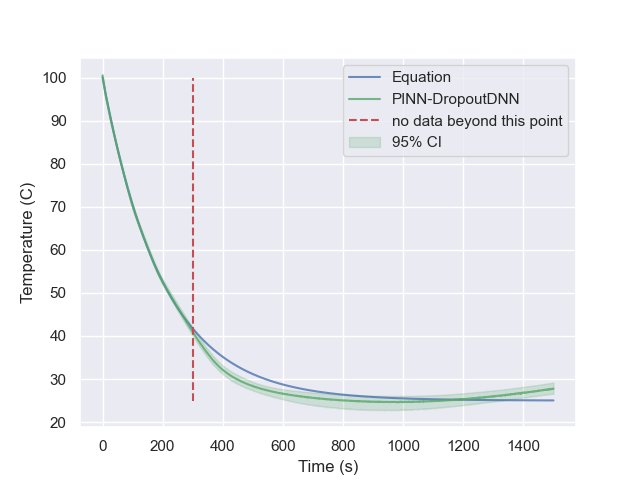
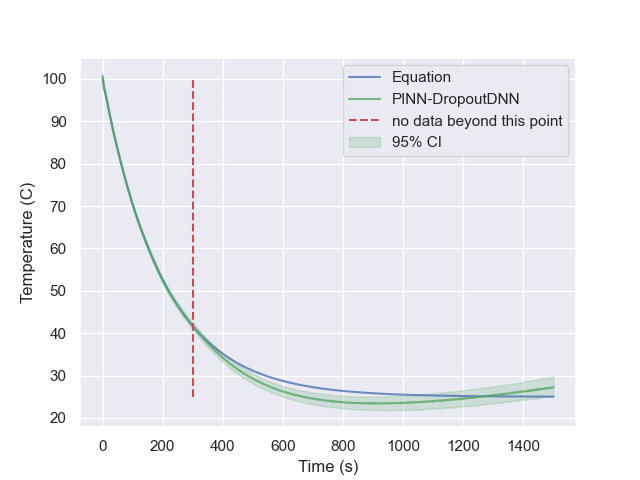
update pinn evaluate method

diff --git a/PINN/models/fitzhugh_nagumo.py b/PINN/models/fitzhugh_nagumo.py
@@ -22,24 +22,25 @@ class FitzHugh_Nagumo(PhysicsModel):
                  V0 = -1.0,
                  R0 = 1.0,
                  t_end=5,
-                 t_extend=20
+                 t_extend=20,
+                 noise_sd=0.1
                  ):
-        super().__init__(a=a, b=b, c=c, V0=V0, R0=R0, t_end=t_end, t_extend=t_extend)
+        super().__init__(a=a, b=b, c=c, V0=V0, R0=R0, t_end=t_end, t_extend=t_extend, noise_sd=noise_sd)
 
         
-    def _data_generation(self, n_samples=20, noise_sd=0.05):
+    def _data_generation(self, n_samples=300):
         t_eval = np.linspace(0, self.t_end, n_samples)
         V, R = self.physics_law(t_eval, self.V0, self.R0)
         
-        X = torch.tensor(t_eval).reshape(-1,1)
+        X = torch.tensor(t_eval).to(torch.float32).reshape(-1,1)
         y = torch.stack([V, R], dim=1)
-        y += noise_sd * torch.randn_like(y)
+        y += self.noise_sd * torch.randn_like(y)
         return X, y
     
     def physics_law(self, ts, V_init, R_init)->torch.Tensor:
         sol = solve_ivp(self.fitzhugh_nagumo, (ts[0], ts[-1]), [V_init, R_init], t_eval=ts)
-        V = torch.tensor(sol.y[0])
-        R = torch.tensor(sol.y[1])
+        V = torch.tensor(sol.y[0]).to(torch.float32)
+        R = torch.tensor(sol.y[1]).to(torch.float32)
         return V, R
     
     def fitzhugh_nagumo(self, t, y):
@@ -78,11 +79,13 @@ class FitzHugh_Nagumo(PhysicsModel):
         fig, (ax1, ax2) = plt.subplots(2, 1, sharex=True, figsize=(8, 6))
         
         ax1.plot(ts, V.flatten().numpy(), 'b', label='V (Voltage Variable)')
+        ax1.scatter(self.X, self.y[:,0], color='r', label='Data', marker='x')
         ax1.set_ylabel('V(t)')
         ax1.set_ylim(-2, 4)
         ax1.legend()
         
-        ax2.plot(ts, R.flatten().numpy(), 'r', label='R (Recovery Variable)')
+        ax2.plot(ts, R.flatten().numpy(), 'g', label='R (Recovery Variable)')
+        ax2.scatter(self.X, self.y[:,1], color='r', label='Data', marker='x')
         ax2.set_xlabel('t')
         ax2.set_ylabel('R(t)')
         ax2.set_ylim(-1, 2)
@@ -96,7 +99,8 @@ if __name__ == "__main__":
     
     
     model = FitzHugh_Nagumo()
-    # print(model.X, model.y)
+    print(model.X.shape, model.y.shape)
+    print(model.input_dim, model.output_dim)
     
     net = nn.Sequential(
         nn.Linear(1, 15),
@@ -105,13 +109,15 @@ if __name__ == "__main__":
         nn.Softplus(),
         nn.Linear(15, 2)
     )
-    optimizer = torch.optim.Adam(net.parameters(), lr=1e-3)
-    optimizer.zero_grad()
-    loss = model.physics_loss(net)
-    loss.backward()
+    # optimizer = torch.optim.Adam(net.parameters(), lr=1e-3)
+    # optimizer.zero_grad()
+    # loss = model.physics_loss(net)
+    # loss.backward()
     
-    for p in net.parameters():
-        print(p.grad)
+    # for p in net.parameters():
+        # print(p.grad)
+    
+    # model.plot()
     
     # print(model.physics_loss(net))
     

diff --git a/test_fitzhugh_efi.py b/test_fitzhugh_efi.py
@@ -1,0 +1,61 @@
+from PINN.pinn_efi import PINN_EFI
+from PINN.models.fitzhugh_nagumo import FitzHugh_Nagumo
+import torch
+import matplotlib.pyplot as plt
+import seaborn as sns
+
+
+
+
+if __name__ == '__main__':
+    
+    physics_model = FitzHugh_Nagumo()
+    model = PINN_EFI(physics_model=physics_model, physics_loss_weight=0, lr=1e-4, sgld_lr=1e-4, lambda_y=10, lambda_theta=10, hidden_layers=[15, 15, 15])
+    
+    for key, value in model.__dict__.items():
+        print('{}: {}'.format(key, value))
+        
+        
+    ts = torch.linspace(0, physics_model.t_extend, 100)
+    
+    losses = model.train(epochs=10000, eval_x=ts.view(-1,1))
+    
+    preds_upper, preds_lower, preds_mean = model.summary()
+    print(preds_upper.shape, preds_lower.shape, preds_mean.shape)
+    
+    V_upper = preds_upper[:,0]
+    V_lower = preds_lower[:,0]
+    V_mean = preds_mean[:,0]
+    
+    R_upper = preds_upper[:,1]
+    R_lower = preds_lower[:,1]
+    R_mean = preds_mean[:,1]
+    
+    V_true, R_true = physics_model.physics_law(ts, -1.0, 1.0)
+    
+    
+
+
+    sns.set_theme()
+    # Plot the results
+    fig, (ax1, ax2) = plt.subplots(2, 1, sharex=True, figsize=(8, 6))
+    
+    ax1.plot(ts, V_true.flatten().numpy(), 'b', label='True V')
+    ax1.plot(ts, V_mean, 'g', label='Estimated V')
+    ax1.fill_between(ts, V_upper, V_lower, alpha=0.2, color='g', label='95% CI')
+    ax1.scatter(model.X, model.y[:,0], color='r', label='Data', marker='x')
+    ax1.set_ylabel('V(t)')
+    ax1.set_ylim(-2, 4)
+    ax1.legend()
+    
+    ax2.plot(ts, R_true.flatten().numpy(), 'b', label='True R')
+    ax2.plot(ts, R_mean, 'g', label='Estimated R')
+    ax2.fill_between(ts, R_upper, R_lower, alpha=0.2, color='g', label='95% CI')
+    ax2.scatter(model.X, model.y[:,1], color='r', label='Data', marker='x')
+    ax2.set_xlabel('t')
+    ax2.set_ylabel('R(t)')
+    ax2.set_ylim(-1, 2)
+    ax2.legend()
+    
+    plt.tight_layout()
+    plt.show()

diff --git a/test_fitzhugh_pinn.py b/test_fitzhugh_pinn.py
@@ -1,0 +1,61 @@
+from PINN.pinn import PINN
+from PINN.models.fitzhugh_nagumo import FitzHugh_Nagumo
+import torch
+import matplotlib.pyplot as plt
+import seaborn as sns
+
+
+
+
+if __name__ == '__main__':
+    
+    physics_model = FitzHugh_Nagumo()
+    model = PINN(physics_model=physics_model, physics_loss_weight=10, lr=1e-3, hidden_layers=[15, 15, 15])
+    
+    for key, value in model.__dict__.items():
+        print('{}: {}'.format(key, value))
+        
+        
+    ts = torch.linspace(0, physics_model.t_extend, 1000)
+    
+    losses = model.train(epochs=30000, eval_x=ts.view(-1,1))
+    
+    preds_upper, preds_lower, preds_mean = model.summary()
+    print(preds_upper.shape, preds_lower.shape, preds_mean.shape)
+    
+    V_upper = preds_upper[:,0]
+    V_lower = preds_lower[:,0]
+    V_mean = preds_mean[:,0]
+    
+    R_upper = preds_upper[:,1]
+    R_lower = preds_lower[:,1]
+    R_mean = preds_mean[:,1]
+    
+    V_true, R_true = physics_model.physics_law(ts, -1.0, 1.0)
+    
+    
+
+
+    sns.set_theme()
+    # Plot the results
+    fig, (ax1, ax2) = plt.subplots(2, 1, sharex=True, figsize=(8, 6))
+    
+    ax1.plot(ts, V_true.flatten().numpy(), 'b', label='True V')
+    ax1.plot(ts, V_mean, 'g', label='Estimated V')
+    ax1.fill_between(ts, V_upper, V_lower, alpha=0.2, color='g', label='95% CI')
+    ax1.scatter(model.X, model.y[:,0], color='r', label='Data', marker='x')
+    ax1.set_ylabel('V(t)')
+    ax1.set_ylim(-2, 4)
+    ax1.legend()
+    
+    ax2.plot(ts, R_true.flatten().numpy(), 'b', label='True R')
+    ax2.plot(ts, R_mean, 'g', label='Estimated R')
+    ax2.fill_between(ts, R_upper, R_lower, alpha=0.2, color='g', label='95% CI')
+    ax2.scatter(model.X, model.y[:,1], color='r', label='Data', marker='x')
+    ax2.set_xlabel('t')
+    ax2.set_ylabel('R(t)')
+    ax2.set_ylim(-1, 2)
+    ax2.legend()
+    
+    plt.tight_layout()
+    plt.show()

diff --git a/PINN/pinn_efi.py b/PINN/pinn_efi.py
@@ -51,7 +51,7 @@ class PINN_EFI(BasePINN):
         self.optimiser = optim.Adam(self.net.parameters(), lr=self.lr)
         
         # init latent noise and sampler
-        self.Z = torch.randn(self.n_samples, 1).requires_grad_()
+        self.Z = torch.randn_like(self.y).requires_grad_()
         self.sampler = SGLD([self.Z], self.sgld_lr)
         
 
@@ -74,7 +74,7 @@ class PINN_EFI(BasePINN):
         y_loss = self.mse_loss(self.y, self.net(self.X) + self.Z)
         prior_loss = - self.net.gmm_prior_loss() / self.n_samples
         
-        w_loss = self.lambda_y * (y_loss + prior_loss + self.physics_loss_weight * self.physics_loss(self.net)) + self.lambda_theta * theta_loss 
+        w_loss = self.lambda_y * (y_loss + prior_loss) + self.physics_loss_weight * self.physics_loss(self.net) + self.lambda_theta * theta_loss 
 
         self.optimiser.zero_grad()
         w_loss.backward()
@@ -93,7 +93,7 @@ if __name__ == '__main__':
     times = torch.linspace(0, t_extend, t_extend)
     temps = physics_model.physics_law(times)
 
-    pinn_efi = PINN_EFI(physics_model=physics_model, physics_loss_weight=10, lr=1e-5, sgld_lr=1e-4)
+    pinn_efi = PINN_EFI(physics_model=physics_model, physics_loss_weight=20, lr=1e-5, sgld_lr=1e-4, lambda_y=1, lambda_theta=1)
 
     losses = pinn_efi.train(epochs=10000, eval_x=times.view(-1,1))
 
@@ -101,7 +101,9 @@ if __name__ == '__main__':
 
     # preds = pinn_efi.predict(times.reshape(-1,1))
     preds_upper, preds_lower, preds_mean = pinn_efi.summary()
-    
+    preds_upper = preds_upper.flatten()
+    preds_lower = preds_lower.flatten()
+    preds_mean = preds_mean.flatten()
     # print(preds.shape)
 
     plt.plot(times, temps, alpha=0.8, color='b', label='Equation')

diff --git a/PINN/pinn_dropout.py b/PINN/pinn_dropout.py
@@ -61,13 +61,15 @@ if __name__ == '__main__':
 
     pinn = PINN_DROPOUT(physics_model=physics_model, physics_loss_weight=10, lr=1e-3, dropout_rate=1e-3)
 
-    losses = pinn.train(epochs=20000, eval_x=times.view(-1,1))
+    losses = pinn.train(epochs=30000, eval_x=times.view(-1,1))
 
 
 
     # preds = pinn_efi.predict(times.reshape(-1,1))
     preds_upper, preds_lower, preds_mean = pinn.summary()
-    
+    preds_upper = preds_upper.flatten()
+    preds_lower = preds_lower.flatten()
+    preds_mean = preds_mean.flatten()
     # print(preds.shape)
 
     plt.plot(times, temps, alpha=0.8, color='b', label='Equation')

diff --git a/PINN/pinn_bnn.py b/PINN/pinn_bnn.py
@@ -53,13 +53,15 @@ if __name__ == '__main__':
 
     pinn = PINN_BNN(physics_model=physics_model, physics_loss_weight=10, lr=1e-3)
 
-    losses = pinn.train(epochs=20000, eval_x=times.view(-1,1))
+    losses = pinn.train(epochs=30000, eval_x=times.view(-1,1))
 
 
 
     # preds = pinn_efi.predict(times.reshape(-1,1))
     preds_upper, preds_lower, preds_mean = pinn.summary()
-    
+    preds_upper = preds_upper.flatten()
+    preds_lower = preds_lower.flatten()
+    preds_mean = preds_mean.flatten()
     # print(preds.shape)
 
     plt.plot(times, temps, alpha=0.8, color='b', label='Equation')

diff --git a/PINN/pinn.py b/PINN/pinn.py
@@ -50,7 +50,9 @@ if __name__ == '__main__':
 
     # preds = pinn_efi.predict(times.reshape(-1,1))
     preds_upper, preds_lower, preds_mean = pinn.summary()
-    
+    preds_upper = preds_upper.flatten()
+    preds_lower = preds_lower.flatten()
+    preds_mean = preds_mean.flatten()
     # print(preds.shape)
 
     plt.plot(times, temps, alpha=0.8, color='b', label='Equation')

diff --git a/PINN/common/base_pinn.py b/PINN/common/base_pinn.py
@@ -68,7 +68,7 @@ class BasePINN(object):
         return out.detach().cpu().numpy()
     
     def evaluate(self, eval_x):
-        y = self.net(eval_x).detach().flatten()
+        y = self.net(eval_x).detach()
         return y
     
     def summary(self):
